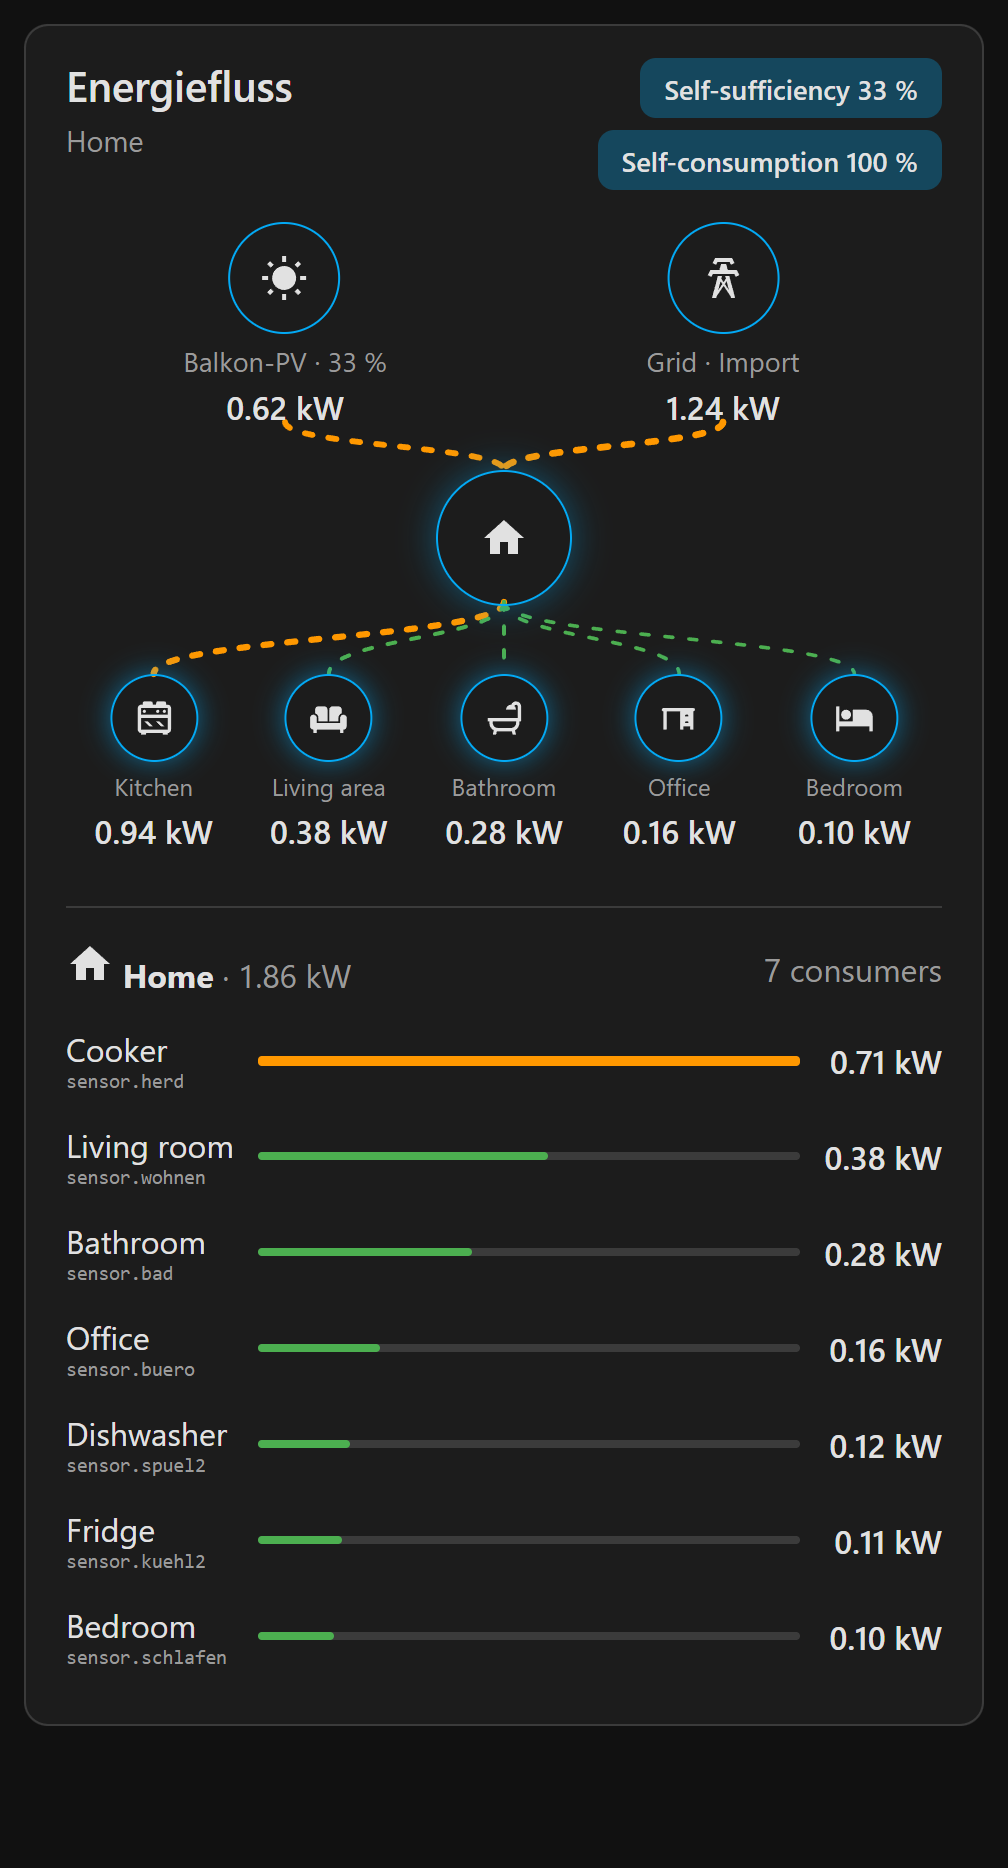
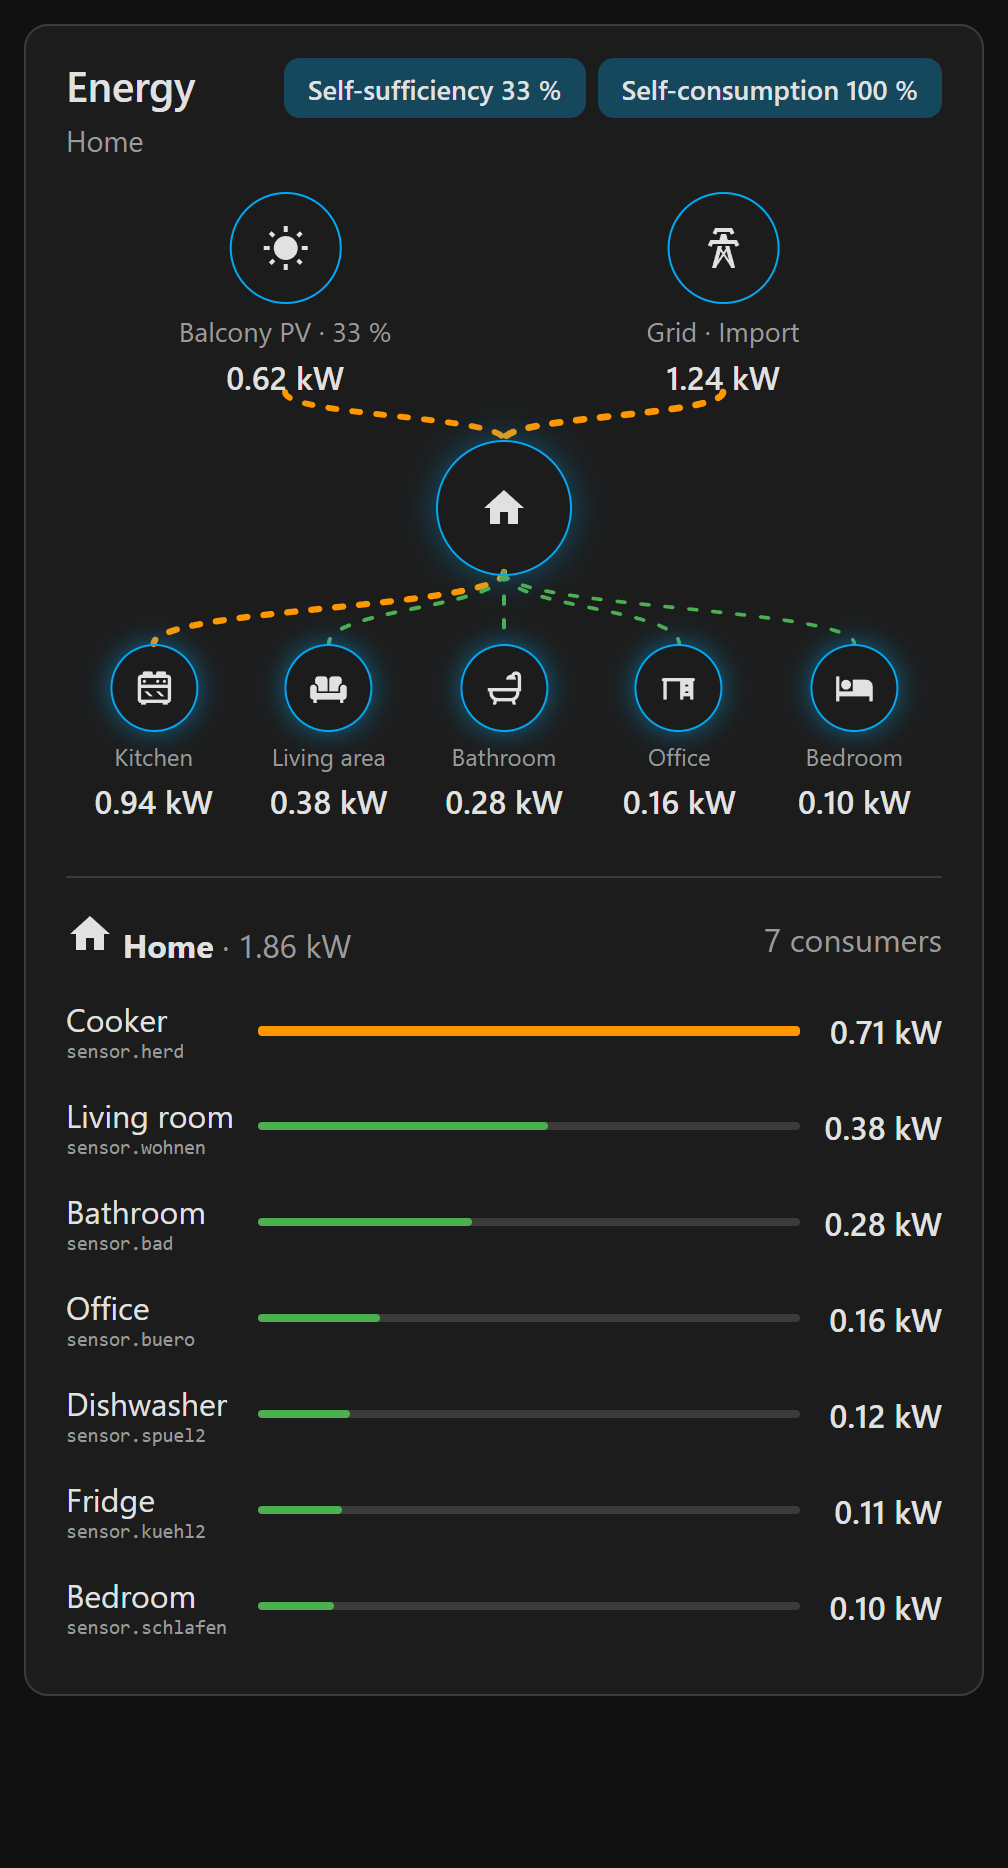
Screenshots: the last two German titles
The scenarios without floors and with many rooms still had German titles and
the source "Balkon-PV"; the demo data of these scenarios is English for ?lang=en
now, and card-without-floors and card-many-rooms-wrapped are rendered again.

diff --git a/dev/index.html b/dev/index.html
@@ -257,10 +257,10 @@
           ],
         },
         flat: {
-          title: "Energiefluss",
+          title: T("Energiefluss", "Energy"),
           home: { total_entity: "sensor.total2" },
           sources: [
-            { entity: "sensor.balkon", type: "solar", name: "Balkon-PV" },
+            { entity: "sensor.balkon", type: "solar", name: T("Balkon-PV", "Balcony PV") },
             { entity: "sensor.netz2", type: "grid" },
           ],
           colors: { thresholds },
@@ -274,7 +274,7 @@
           ],
         },
         long: {
-          title: "Lange Namen",
+          title: T("Lange Namen", "Long names"),
           sources,
           rooms: [
             room("kueche", [
@@ -285,12 +285,12 @@
           ],
         },
         many: { title: T("Viele Räume", "Many rooms"), sources, options: { unit: "kW" }, rooms: manyRooms },
-        wrap: { title: "Viele Räume", sources, options: { unit: "kW", wrap_rooms: true }, rooms: manyRooms },
+        wrap: { title: T("Viele Räume", "Many rooms"), sources, options: { unit: "kW", wrap_rooms: true }, rooms: manyRooms },
         duplicate: {
-          title: "Doppelt",
+          title: T("Doppelt", "Duplicate"),
           rooms: [room("kueche", [c("sensor.backofen")]), room("bad", [c("sensor.backofen")])],
         },
-        invalid: { title: "Ungültig", rooms: [{ name: "ohne area_id" }] },
+        invalid: { title: T("Ungültig", "Invalid"), rooms: [{ name: "ohne area_id" }] },
       };
 
       // Own limits per level, and the oven with its own list (green until 1 kW instead of orange from 300 W).
